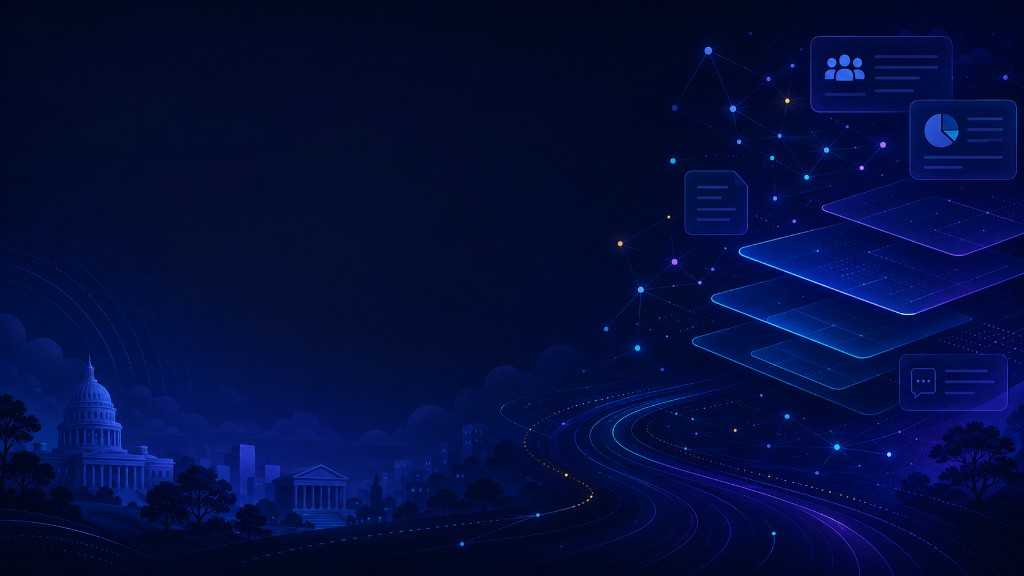
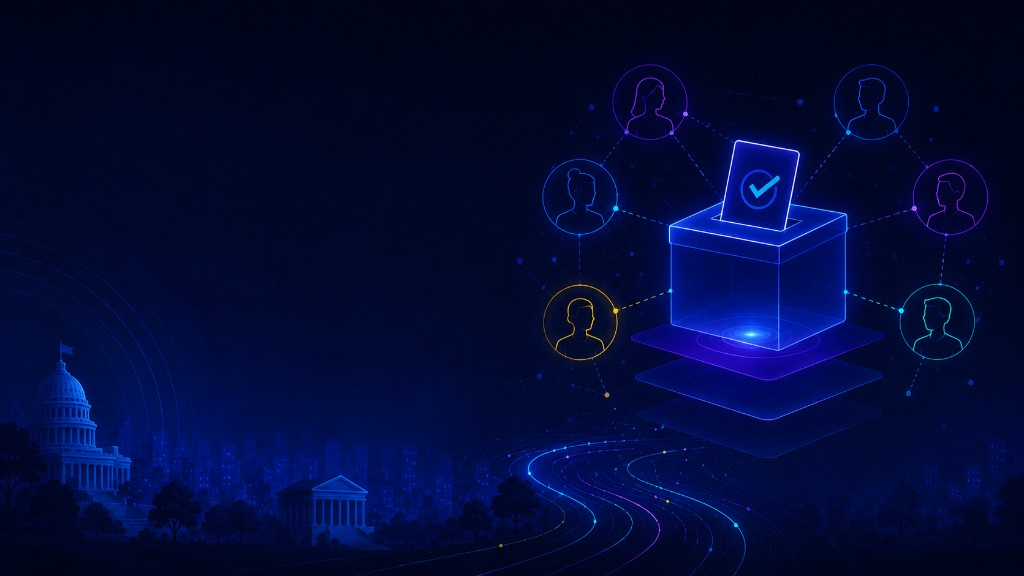
feat: replace Votes hero with dedicated ballot artwork

diff --git a/services/page_heroes.py b/services/page_heroes.py
@@ -133,7 +133,7 @@ PAGE_HEROES: Dict[str, PageHeroConfig] = {
     },
     'votes': {
         'aria': 'Votes and elections',
-        'target_image': '/static/images/hero-votes.png?v=1',
+        'target_image': '/static/images/hero-votes.png?v=2',
         'messages': [
             {
                 'title': 'Decisions deserve witnesses',
